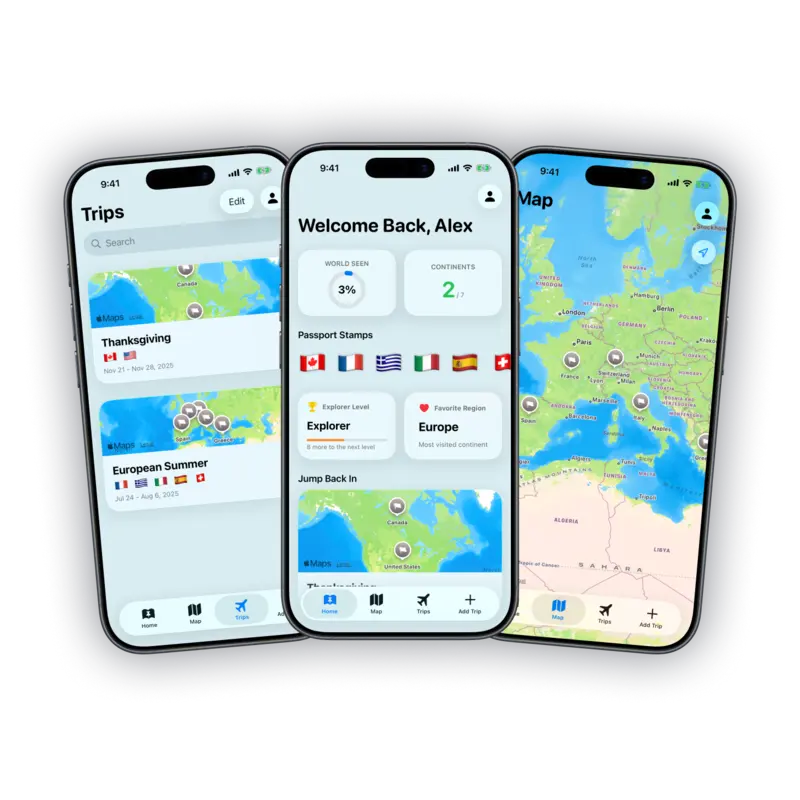
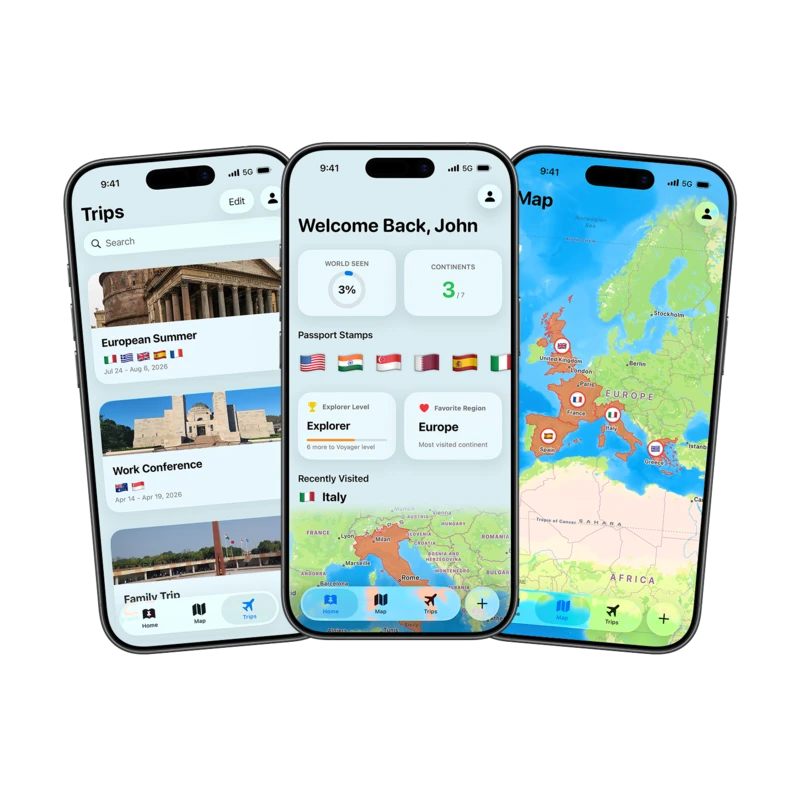
Add CoolCraig project and refresh portfolio copy
Introduces a new CoolCraig/ParentCoach project card and full-screen popout with App Store and research links, plus supporting popup handlers in `main.js` and a new project image asset. Also refreshes About/Skills wording, updates TripBook project text and links, and adjusts popout image styling while replacing headshot and TripBook visuals.

Changed region(s): [[0.0312, 0.125, 0.9688, 0.8438], [0.375, 0.4375, 0.5625, 0.4688], [0.5312, 0.25, 0.5938, 0.3125]]

diff --git a/index.html b/index.html
@@ -134,22 +134,22 @@
                         </div>
                         <div id="about-keywords">
                             <div class="about-words">
-                                <a>Honors Student</a>
-                            </div>
-                            <div class="about-words">
                                 <a>UI/UX Designer</a>
                             </div>
                             <div class="about-words">
                                 <a>Programmer</a>
                             </div>
                             <div class="about-words">
+                                <a>Mobile Developer</a>
+                            </div>
+                            <div class="about-words">
                                 <a>Creative</a>
                             </div>
                             <div class="about-words">
-                                <a>Graphic Designer</a>
+                                <a>Agentic Developer</a>
                             </div>
                             <div class="about-words">
-                                <a>Developer</a>
+                                <a>Graphic Designer</a>
                             </div>
                         </div>
                     </div>
@@ -373,7 +373,7 @@
                                 </div>
                                 <div class="skill-text">
                                     <h3>Creative Cloud</h3>
-                                    <p>Experinece using Adobe software products.</p>
+                                    <p>Advanced usage and knowlege of Adobe suite.</p>
                                 </div>
                             </div>
                         </div>
@@ -460,11 +460,16 @@
                                 <h1>TripBook <span class="project-year"><br>(2025 - current)</span></h1>
                                 <h2>Map your Memories and Track your Global Progress Through a Simple iOS App</h2>
                                 <div class="project-popout-paragraph">
-                                    <p>TripBook is an iOS app to map your memories and track your global progress. TripBook allows users to log their trips and track their global travel statistics in a simple and easy-to-use interface optimized for Liquid Glass on iOS 26. Created for iOS Development course at Chapman University, this app uses SwiftUI, MapKit, and SwiftData to store content on-device and display information in a beautiful native interface. Designed and created from scratch by Divi Newton.</p>
+                                    <p>TripBook is an iOS app to map your memories and track your global progress. TripBook allows users to log their trips and track their global travel statistics in a simple and easy-to-use interface optimized for Liquid Glass on iOS 26. Originally created for iOS Development course at Chapman University before being extended far beyond that timeframe, this app uses SwiftUI, MapKit, and SwiftData to store content on-device and display information in a beautiful native interface.</p>
                                 </div>
-                                <!-- <div class="overlay-projects-links-container">
-                                    <a href="https://devpost.com/software/cloudr" target="_blank" class="p-overlay-btn">Devpost Submission</a>
-                                </div> -->
+                                <div class="overlay-projects-links-container">
+                                    <a href="https://apps.apple.com/us/app/tripbook-country-tracker/id6761938921" target="_blank" class="p-overlay-btn">View on the App Store</a>
+                                    <div class="other-social-bar">
+                                        <a href="https://www.appsbydivi.com/tripbook" target="_blank" class="bottom-socials-item">
+                                            <img src="images/other/white-website.webp" width="60%" alt="Appsbydivi.com">
+                                        </a>
+                                    </div>
+                                </div>
                             </div>
                         </div>
                     </div>
@@ -613,6 +618,33 @@
                         </div>
                     </div>
                 </div>
+                <div id="coolcraig-popout" class="project-popout">
+                    <!-- Button to close the overlay navigation -->
+                    <a href="javascript:void(0)" class="closebtn" onclick="closeCoolCraig()">&times;</a>
+                    <!-- Overlay content -->
+                    <div class="project-popout-content">
+                        <div class="popout-container">
+                            <div class="project-popout-image">
+                                <img class="popout-pic" src="images/coolcraig.webp" alt="CoolCraig">
+                            </div>
+                            <div class="project-popout-text">
+                                <h1>CoolCraig and ParentCoach <span class="project-year"><br>(2026 - current)</span></h1>
+                                <h2>Digital Health Interventions developed through Research at Chapman University</h2>
+                                <div class="project-popout-paragraph">
+                                    <p>CoolCraig and ParentCoach are native iOS clinical intervention apps, architected in Swift and Xcode and deployed to the App Store. CoolCraig helps parents and children manage tasks with reward systems, while ParentCoach educates parents on supporting children with ADHD. Study objectives were translated into user-centered Swift features that support data collection across clinical testing cohorts, and human-computer interaction data was analyzed with research teams to publish findings. These deliverables were funded by the NSF CISE REU program to advance computational research milestones.</p>
+                                </div>
+                                <div class="overlay-projects-links-container">
+                                    <a href="https://apps.apple.com/us/app/coolcraig3/id6504704192" target="_blank" class="p-overlay-btn">View on the App Store</a>
+                                    <div class="other-social-bar">
+                                        <a href="https://sites.google.com/chapman.edu/uideaslab/projects/coolcraig" target="_blank" class="bottom-socials-item">
+                                            <img src="images/other/white-website.webp" width="60%" alt="CoolCraig Details">
+                                        </a>
+                                    </div>
+                                </div>
+                            </div>
+                        </div>
+                    </div>
+                </div>
                 <div id="data-structures-popout" class="project-popout">
                     <!-- Button to close the overlay navigation -->
                     <a href="javascript:void(0)" class="closebtn" onclick="closeDS()">&times;</a>
@@ -643,6 +675,15 @@
                         <a onclick="openTripBook()" class="project-btn-mobile">See more</a>
                         <div class="project-overlay">
                             <a onclick="openTripBook()" class="project-btn">See more</a>
+                        </div>
+                    </div>
+                    <div class="project-card">
+                        <img src="images/coolcraig.webp" class="project-img" alt="CoolCraig and ParentCoach">
+                        <h2 onclick="openCoolCraig()">CoolCraig</h2>
+                        <h3>Digital Health Intervention Research Applications from Chapman University</h3>
+                        <a onclick="openCoolCraig()" class="project-btn-mobile">See more</a>
+                        <div class="project-overlay">
+                            <a onclick="openCoolCraig()" class="project-btn">See more</a>
                         </div>
                     </div>
                     <div class="project-card">

diff --git a/main.js b/main.js
@@ -22,6 +22,14 @@ function closeTripBook() {
     document.getElementById("tripbook-popout").style.height = "0%";
 }
 
+/* CoolCraig Popup */
+function openCoolCraig() {
+    document.getElementById("coolcraig-popout").style.height = "100%";
+}
+function closeCoolCraig() {
+    document.getElementById("coolcraig-popout").style.height = "0%";
+}
+
 /* personal Popup */
 function openPersonalsite() {
     document.getElementById("personalsite-popout").style.height = "100%";

diff --git a/style.css b/style.css
@@ -841,11 +841,11 @@ nav {
 }
 .popout-pic {
     width: 35dvw;
-    border-radius: 25px;
+    /* border-radius: 25px;
     box-shadow: 0 4px 30px rgba(0, 0, 0, 0.1);
     border: 0.5px solid rgba(255, 255, 255, 0.23);
     border: 1px solid rgba(255, 255, 255, 0.23);
-    box-shadow: 0 0 3px rgba(255, 255, 255, 0.23) inset;
+    box-shadow: 0 0 3px rgba(255, 255, 255, 0.23) inset; */
     transition: width 1s, height 1s, transform 1s;
     overflow: hidden;
 }
